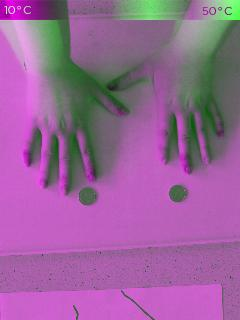
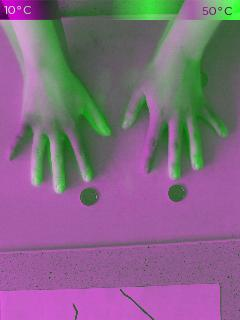
wybieranie punktów charakterystycznych na IR i VIS

diff --git a/fusionImage.m b/fusionImage.m
@@ -1,15 +1,15 @@
 function [] = fusionImage(handles)
-global imagesVIS imagesIR falseColorOverlay fusionDone value
+global imagesVIS imagesIR falseColorOverlay fusionDone value VISPoints IRPoints
 falseColorOverlay={};
 for i=1:length(imagesIR)
     fusionDone=true;
-    vis_points = [2.805500000000001e+03 1.389500000000001e+03; 4.257500000000001e+03 1.179500000000001e+03; 3.417500000000001e+03 2.403500000000001e+03; 4.083500000000000e+03 2.295500000000000e+03];
-    ir_points = [20.0000 68.0000; 209.0000 50.0000; 88.5925 197.7254; 173.6792 187.5520];
+    %vis_points = [2.805500000000001e+03 1.389500000000001e+03; 4.257500000000001e+03 1.179500000000001e+03; 3.417500000000001e+03 2.403500000000001e+03; 4.083500000000000e+03 2.295500000000000e+03];
+    %ir_points = [20.0000 68.0000; 209.0000 50.0000; 88.5925 197.7254; 173.6792 187.5520];
     % im_vis = imread('images/_MG_1464.JPG');
     % im_ir = imread('images/IMGT0450.PNG');
     im_hands_vis = imagesVIS{i};
     im_hands_ir = imagesIR{i};
-    tform = fitgeotrans(vis_points, ir_points, 'similarity');
+    tform = fitgeotrans(VISPoints, IRPoints, 'similarity');
     fusion = imwarp(im_hands_vis, tform, 'OutputView', imref2d(size(im_hands_ir)));
     axes(handles.axesIRVIS);
     falseColorOverlay{i} = imfuse(im_hands_ir, fusion, 'ColorChannels', [2 1 2]);

diff --git a/HTOMain.m b/HTOMain.m
@@ -20,7 +20,7 @@ end
 % End initialization code - DO NOT EDIT
 
 function HTOMain_OpeningFcn(hObject, eventdata, handles, varargin)
-global fusionDone value
+global fusionDone value VISPoints IRPoints
 handles.output = hObject;
 guidata(hObject, handles);
 set(handles.sldChangeImage, 'Min', 1);
@@ -33,6 +33,8 @@ set(handles.axesIR, 'visible', 'off');
 set(handles.axesIRVIS, 'visible', 'off')
 set(handles.axesStatisticHands, 'visible', 'off');
 set(handles.axesStatisticPoint, 'visible', 'off');
+VISPoints = [];
+IRPoints = [];
 fusionDone=false;
 
 function varargout = HTOMain_OutputFcn(hObject, eventdata, handles)
@@ -95,8 +97,26 @@ if isequal(get(hObject,'BackgroundColor'), get(0,'defaultUicontrolBackgroundColo
 end
 
 function btnSelectPointsVIS_Callback(hObject, eventdata, handles)
+global VISPoints
+image = imread('images/_MG_1464.JPG');
+figure
+imshow(image)
+[x_vis, y_vis] = ginput(4);
+close
+for i=1:1:4
+    VISPoints = [VISPoints; x_vis(i) y_vis(i)];
+end
 
 function btnSelectPointsIR_Callback(hObject, eventdata, handles)
+global IRPoints
+image = imread('images/IMGT0450.PNG');
+figure
+imshow(image)
+[x_ir, y_ir] = ginput(4);
+close
+for i=1:1:4
+    IRPoints = [IRPoints; x_ir(i) y_ir(i)];
+end
 
 function btnSelectPoint_Callback(hObject, eventdata, handles)
 global value fusionDone x y
